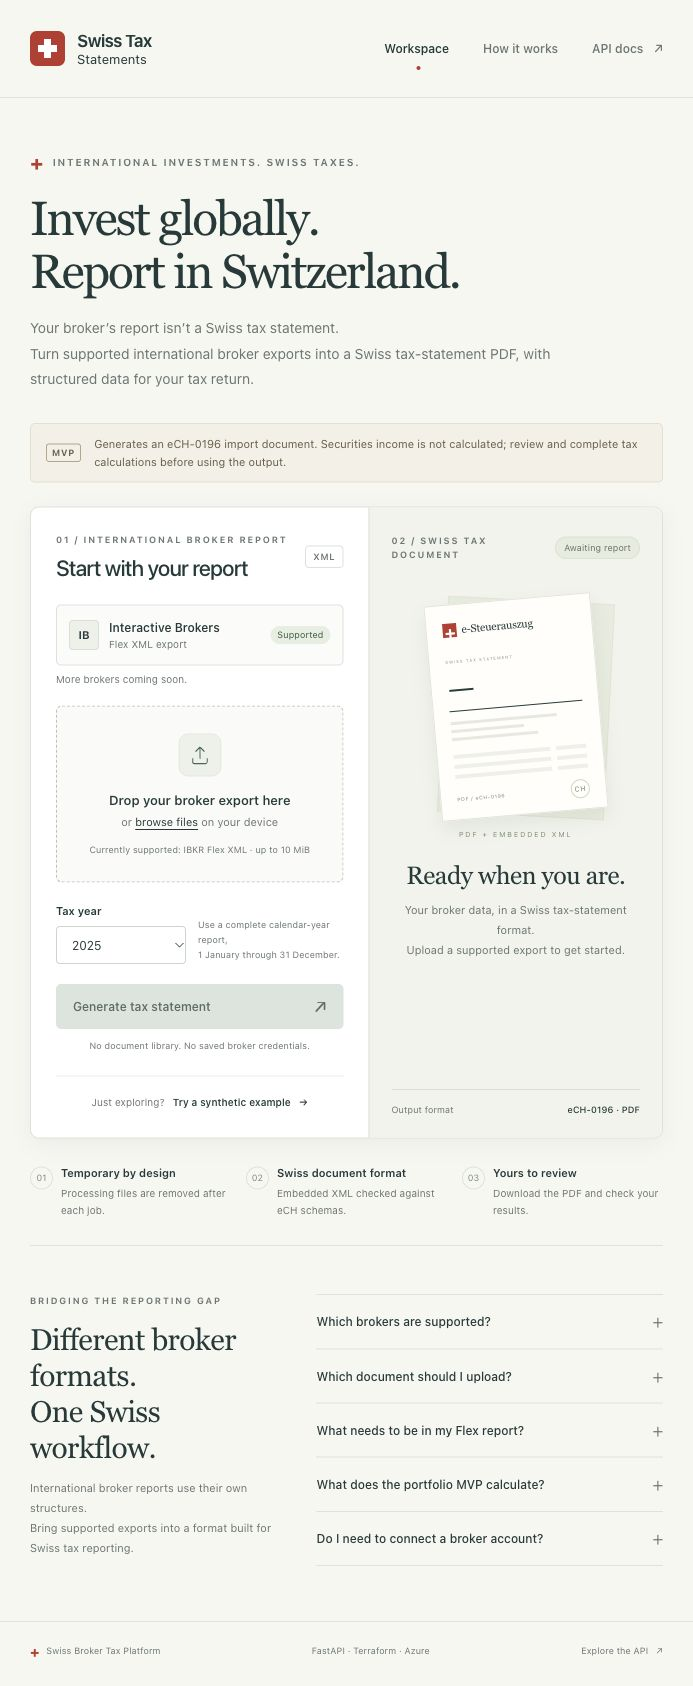
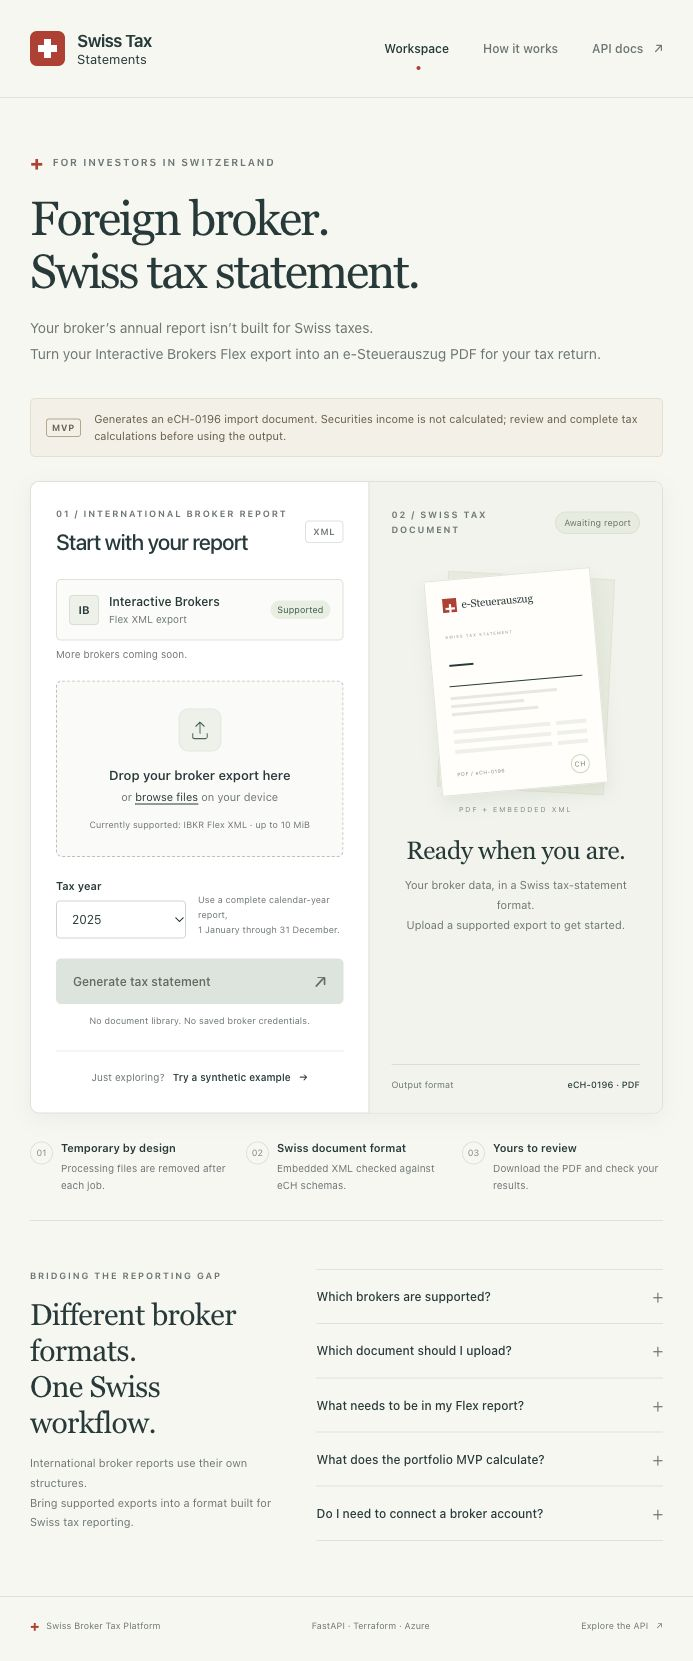
copy: refine landing-page messaging and refresh preview

diff --git a/app/web/index.html b/app/web/index.html
@@ -36,13 +36,13 @@
       <section class="intro" aria-labelledby="page-title">
         <div>
           <p class="eyebrow">
-            <span class="tiny-cross" aria-hidden="true">+</span> For investors in Switzerland
+            <span class="tiny-cross" aria-hidden="true">+</span> FOR INVESTORS IN SWITZERLAND
           </p>
           <h1 id="page-title">Foreign broker.<br />Swiss tax statement.</h1>
           <p class="intro-copy">
-            Your broker’s report isn’t a Swiss tax statement.<br />
-            Turn supported international broker exports into a Swiss
-            tax-statement PDF, with structured data for your tax return.
+            Your broker’s annual report isn’t built for Swiss taxes.<br />
+            Turn your Interactive Brokers Flex export into an e-Steuerauszug PDF
+            for your tax return.
           </p>
         </div>
         <div class="intro-note">
